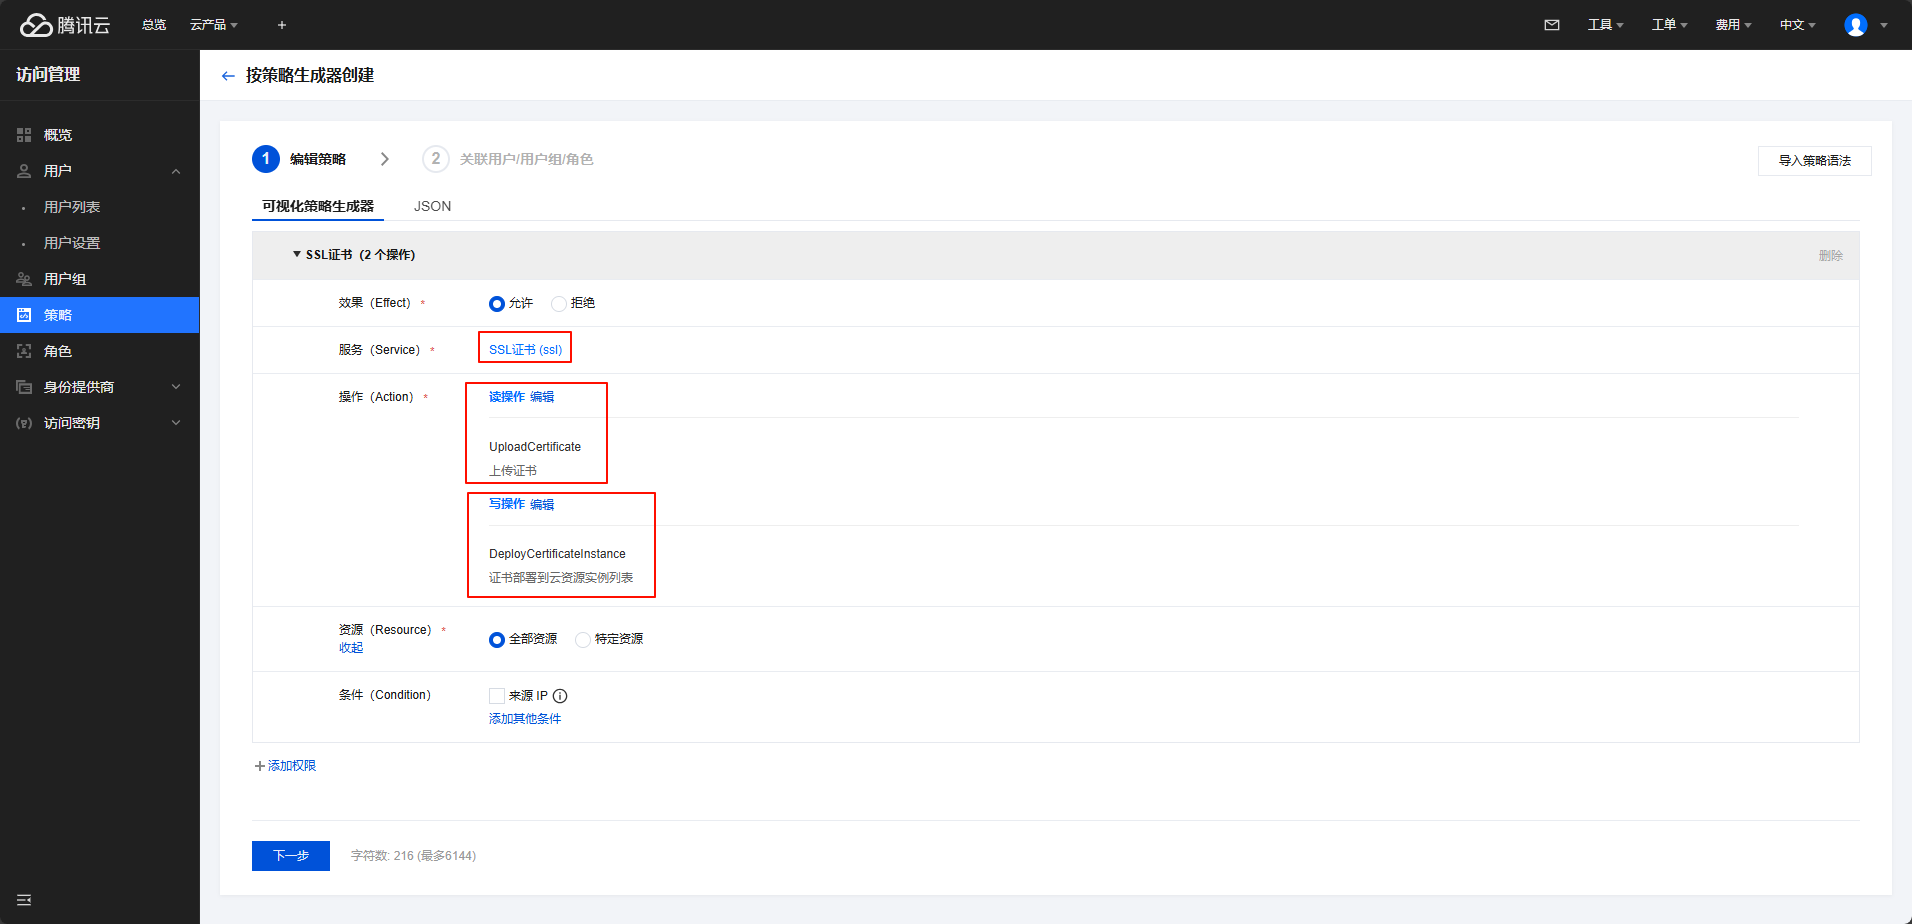
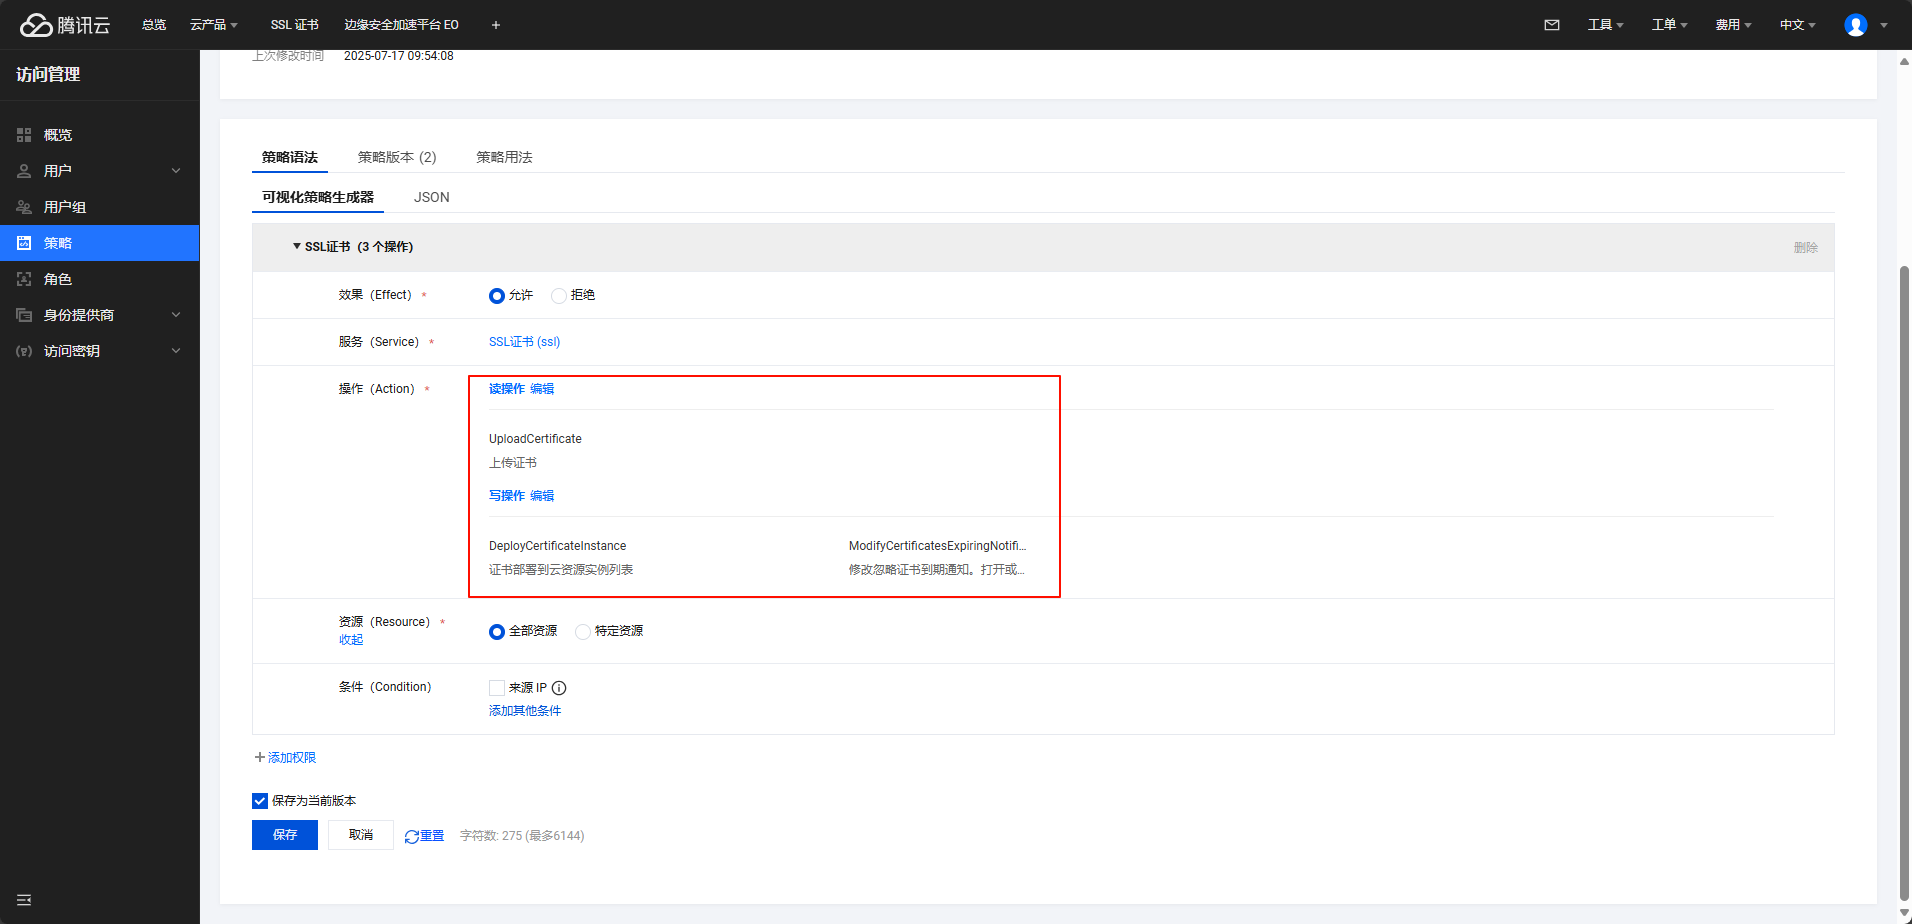
notify

diff --git a/src/main.rs b/src/main.rs
@@ -24,7 +24,7 @@ pub struct DeployCertificateData {
 #[derive(Debug, Serialize, Deserialize)]
 pub struct ModifyCertificateNotificationData {
     #[serde(rename = "CertificateIds")]
-    pub certificate_ids: String,
+    pub certificate_ids: Vec<String>,
 }
 
 // 上传证书
@@ -172,7 +172,7 @@ async fn deploy(args: &config::args_conf::Args) -> anyhow::Result<()> {
         return Err(anyhow::anyhow!(modify_notification_response.response.error.unwrap().to_string()));
     }
     let certificate_ids = modify_notification_response.response.data.unwrap().certificate_ids;
-    println!("忽略证书到期通知成功，CertificateIds: {}", certificate_ids);
+    println!("忽略证书到期通知成功，CertificateIds: {:?}", certificate_ids);
 
     anyhow::Ok(())
 }
@@ -232,6 +232,22 @@ mod tests {
         println!("{:?}", result);
         assert!(result.is_ok());
         let response = serde_json::from_str::<TencentCloudResponse<DeployCertificateData>>(&result.unwrap());
+        assert!(response.is_ok());
+        let response = response.unwrap();
+        assert!(response.response.error.is_none());
+    }
+    
+    #[tokio::test]
+    async fn test_modify_certificate_notification() {
+        let secret_id = std::env::var("TENCENTCLOUD_SECRET_ID").unwrap();
+        let secret_key = std::env::var("TENCENTCLOUD_SECRET_KEY").unwrap();
+        let certificate_id = "test_cert_id";
+        let host = "ssl.intl.tencentcloudapi.com";
+
+        let result = modify_certificate_notification(secret_id, secret_key, certificate_id.to_string(), host.to_string()).await;
+        println!("{:?}", result);
+        assert!(result.is_ok());
+        let response = serde_json::from_str::<TencentCloudResponse<ModifyCertificateNotificationData>>(&result.unwrap());
         assert!(response.is_ok());
         let response = response.unwrap();
         assert!(response.response.error.is_none());

diff --git a/README.md b/README.md
@@ -9,7 +9,7 @@
 ![alt text](doc/image4.png)
 创建完成记住子用户的 SecretId 和 SecretKey
 
-第二步，先在腾讯云控制台创建一个用户策略，并授权给子用户 [https://console.tencentcloud.com/cam/policy](https://console.tencentcloud.com/cam/policy)
+第二步，先在腾讯云控制台创建一个用户策略，需要三个API接口 `UploadCertificate` `DeployCertificateInstance` `ModifyCertificatesExpiringNotificationSwitch`，并授权给子用户 [https://console.tencentcloud.com/cam/policy](https://console.tencentcloud.com/cam/policy)
 ![alt text](doc/image.png)
 ![alt text](doc/image2.png)
 ![alt text](doc/image3.png)
